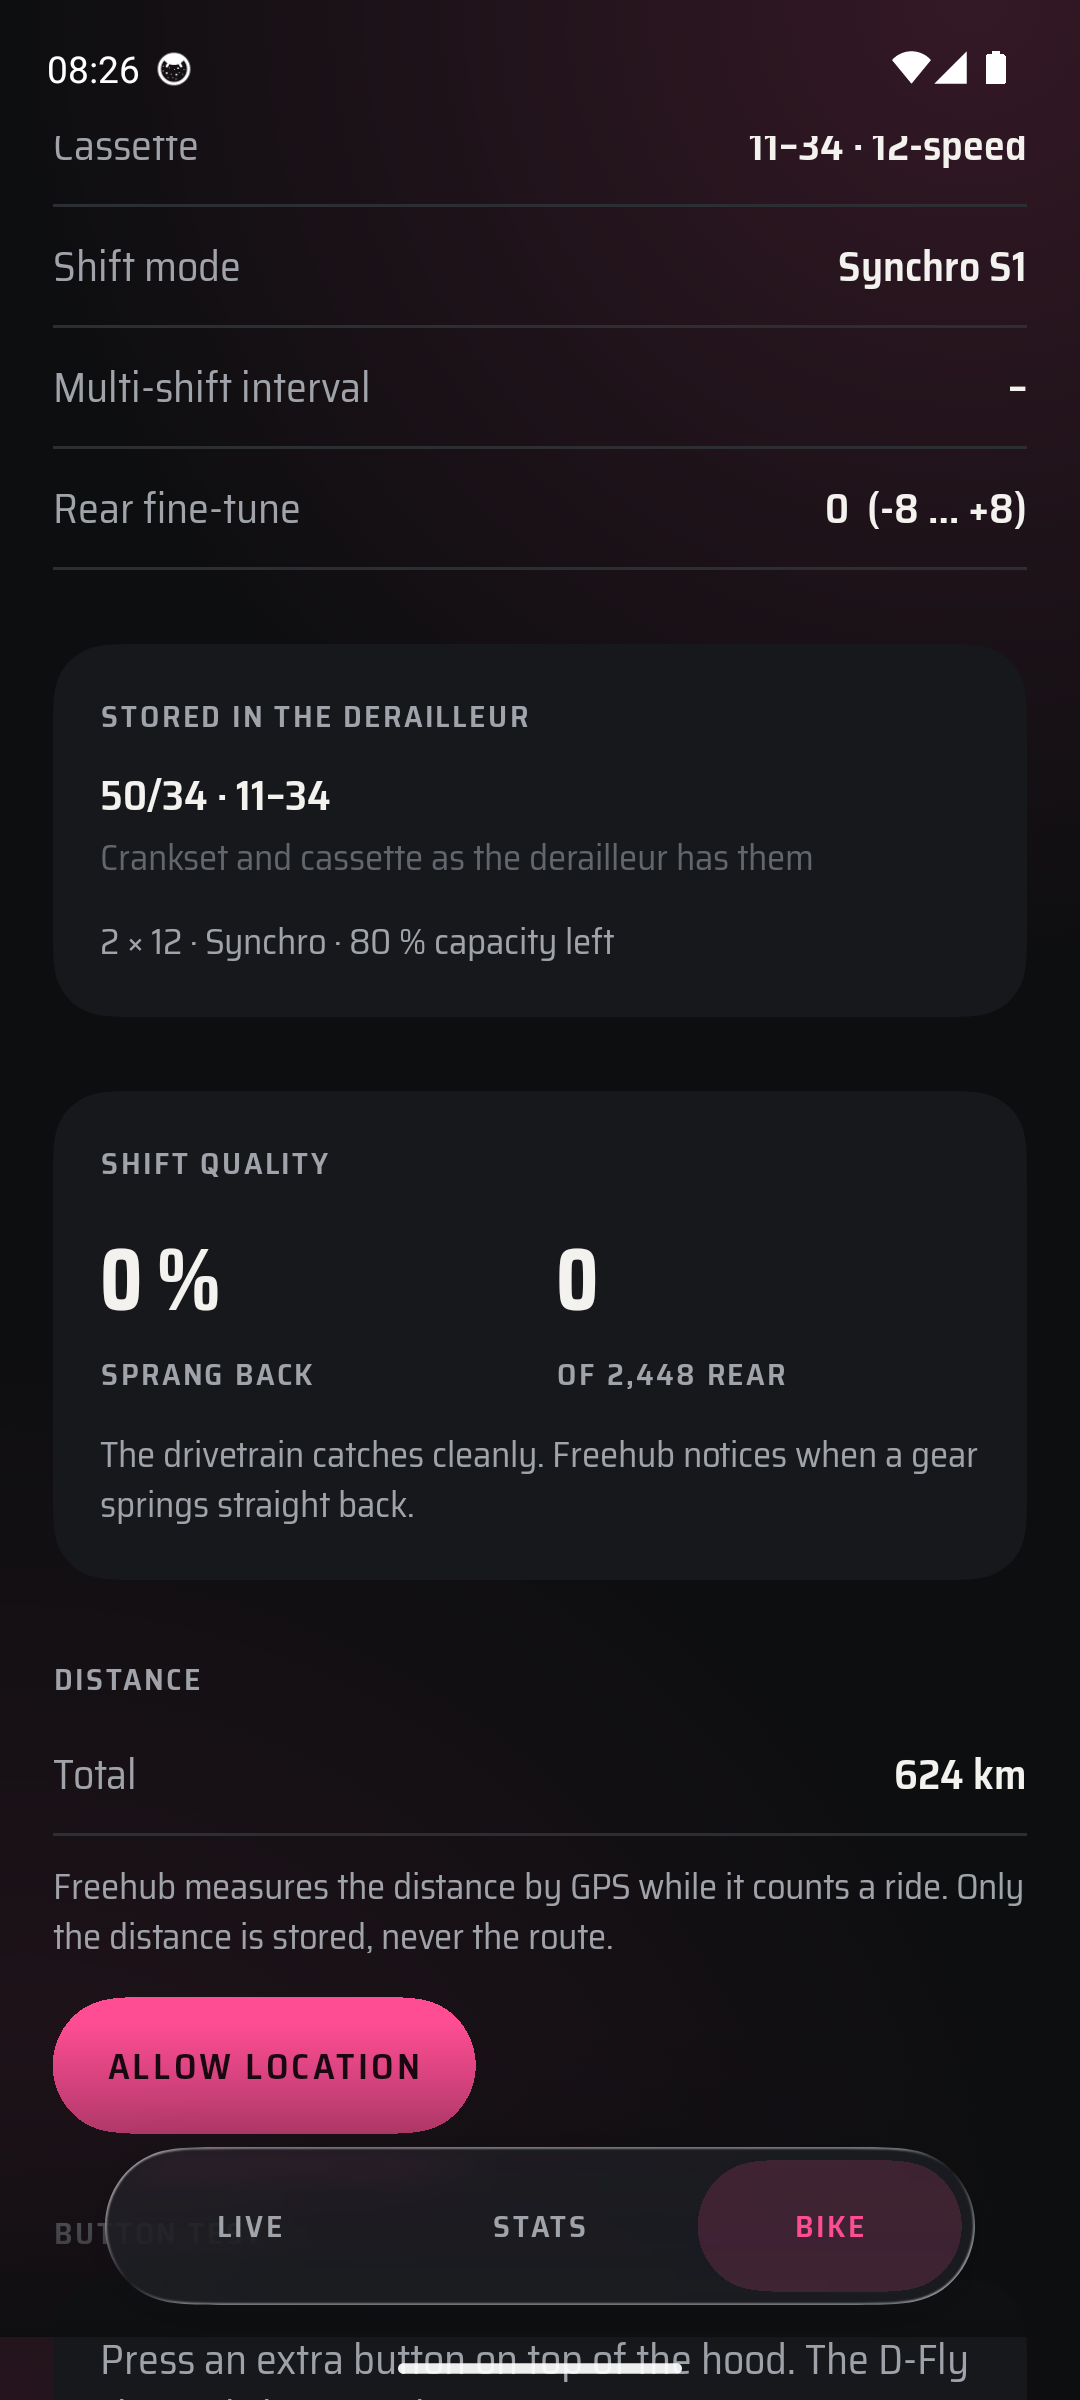
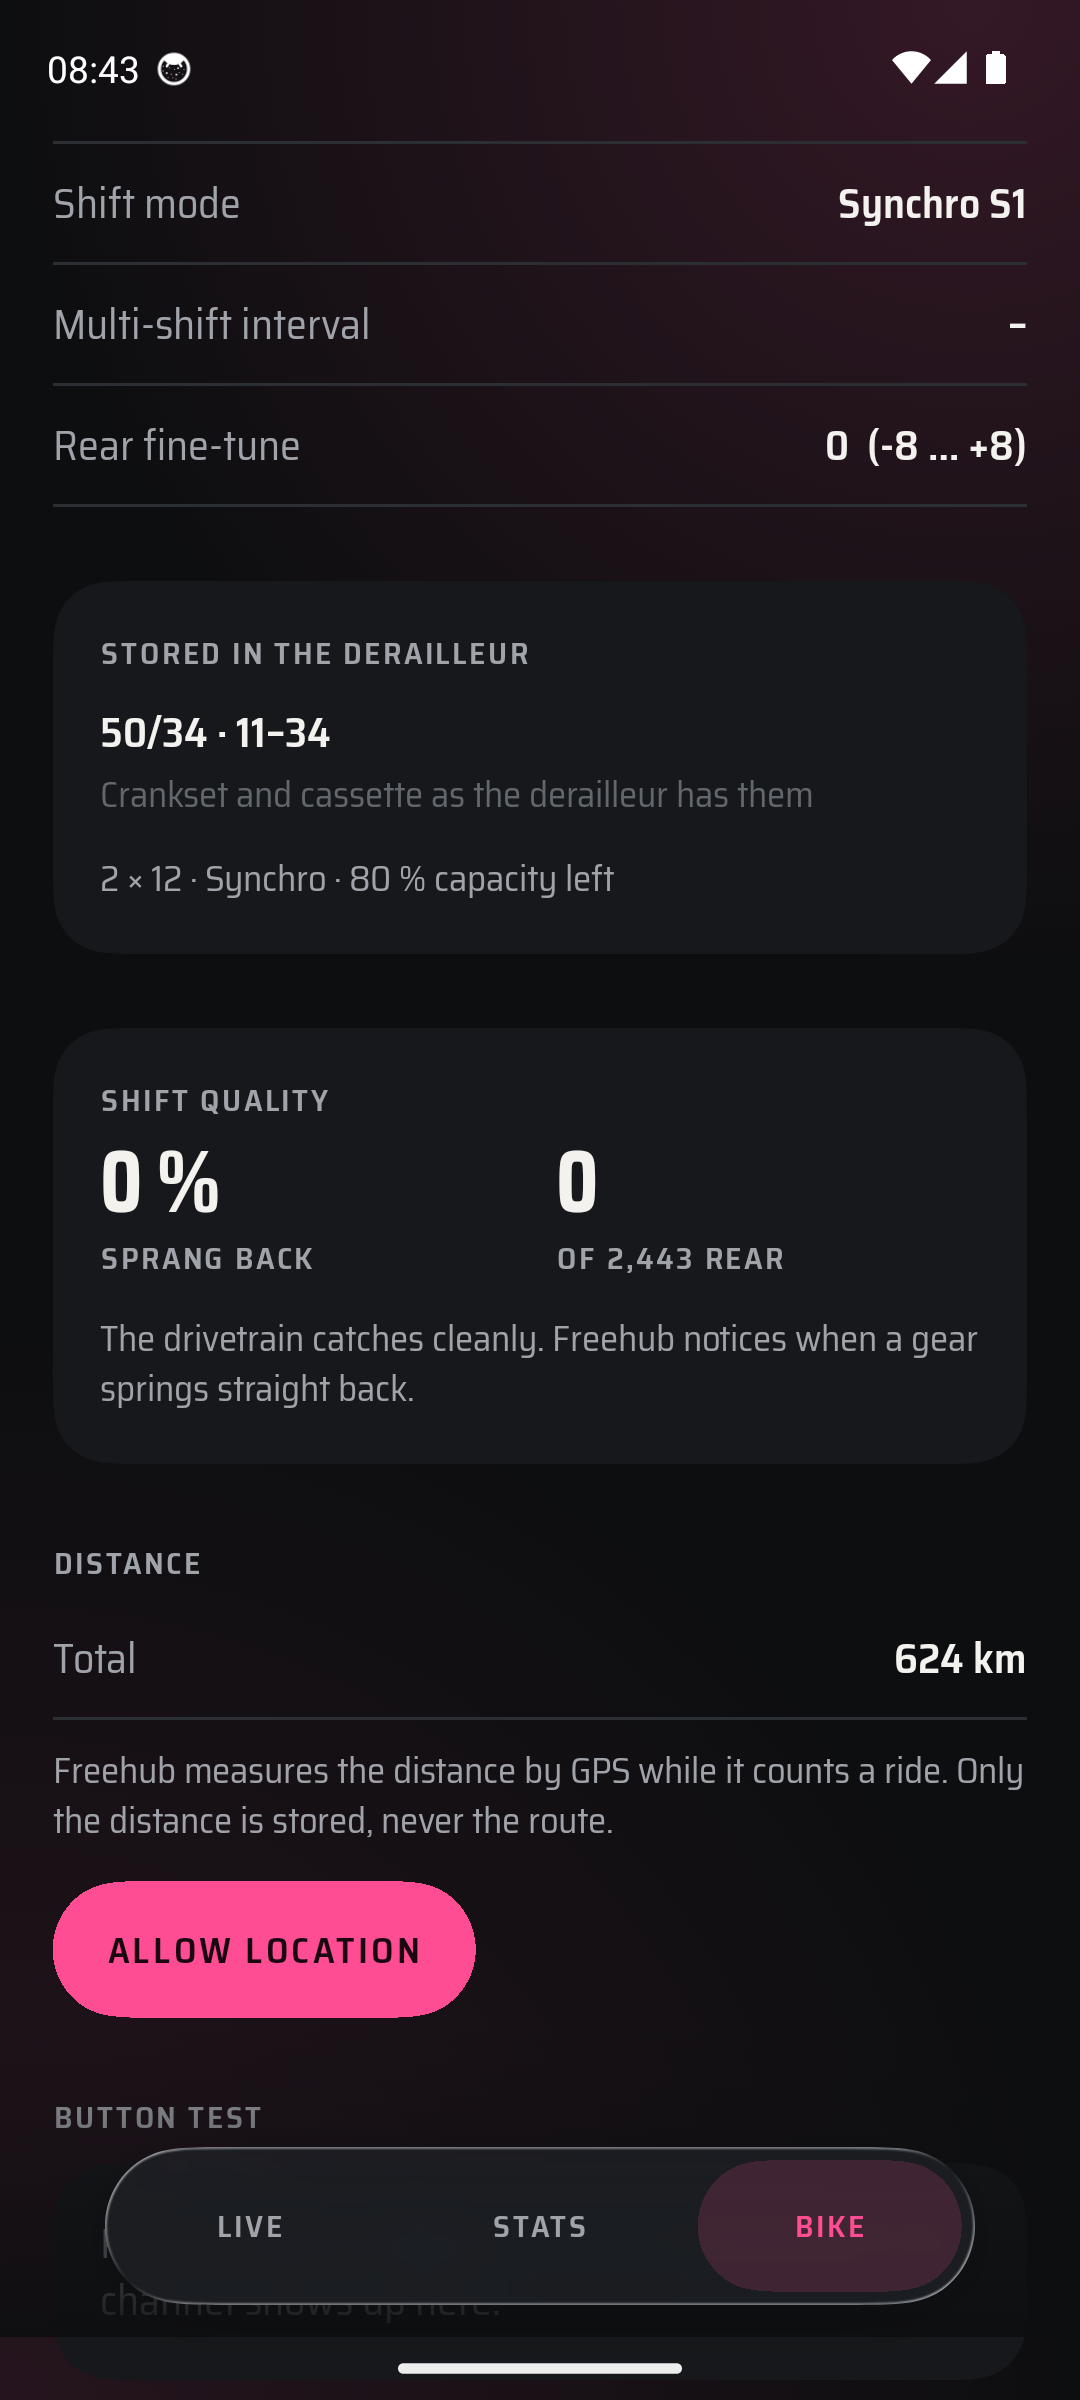
Numbers sit on their labels: crop Saira's empty line box around numerals
Saira reserves 0.45 em above and 0.44 em below the digits for accents and
descenders. A single line ignores a smaller lineHeight in Compose, so the gear,
the all-time count and every field value now get Modifier.capBox, which crops
the measured box to cap height and baseline; the glyphs still draw in full.
Labels sit on their numbers, and the whole Live screen, this ride included,
fits above the tab bar. Screenshots, README images and alt texts redone.

diff --git a/app/src/main/java/io/github/brickystudios/freehub/Ui.kt b/app/src/main/java/io/github/brickystudios/freehub/Ui.kt
@@ -62,6 +62,10 @@ import androidx.compose.ui.text.input.KeyboardType
 import androidx.compose.ui.text.input.PasswordVisualTransformation
 import androidx.compose.ui.text.input.VisualTransformation
 import java.util.Locale
+import androidx.compose.ui.layout.AlignmentLine
+import androidx.compose.ui.layout.FirstBaseline
+import androidx.compose.ui.layout.layout
+import kotlin.math.roundToInt
 
 /** The app's language: null follows the phone (German phones get German, all others English). */
 object Lang {
@@ -166,17 +170,35 @@ fun BodyText(text: String, modifier: Modifier = Modifier, color: Color = P.ink, 
     style = TextStyle(fontFamily = Body, fontWeight = weight, fontSize = size, lineHeight = size * 1.35f, color = color, textAlign = align ?: TextAlign.Unspecified),
 )
 
+/** The big type. [tight] is for a number on a line of its own: see [capBox]. */
 @Composable
-fun Num(text: String, size: TextUnit, modifier: Modifier = Modifier, color: Color = P.ink, weight: FontWeight = FontWeight.ExtraBold) = Text(
-    text, modifier,
+fun Num(text: String, size: TextUnit, modifier: Modifier = Modifier, color: Color = P.ink, weight: FontWeight = FontWeight.ExtraBold, tight: Boolean = false) = Text(
+    text, if (tight) modifier.capBox(size) else modifier,
     style = TextStyle(fontFamily = Numerals, fontWeight = weight, fontSize = size, lineHeight = size * 0.95f, color = color, letterSpacing = (-0.01).em),
 )
+
+/**
+ * Boxes one line of numerals from just above cap height to just below the baseline. Saira reserves room for
+ * accents and descenders that digits never use (0.45 em above, 0.44 em below), which at 120 sp pushes a label a
+ * finger's width away from its number. A single line ignores a smaller lineHeight in Compose, so the measured
+ * box is cropped instead; the glyphs still draw in full.
+ */
+fun Modifier.capBox(size: TextUnit) = layout { m, c ->
+    val p = m.measure(c)
+    val base = p[FirstBaseline]
+    if (base == AlignmentLine.Unspecified) return@layout layout(p.width, p.height) { p.place(0, 0) }
+    val em = size.toPx()
+    val top = (base - em * 0.74f).roundToInt().coerceAtLeast(0) // Saira's cap height is 0.688 em
+    val bottom = (base + em * 0.06f).roundToInt().coerceAtMost(p.height)
+    layout(p.width, bottom - top) { p.place(0, -top) }
+}
 
 /** A value with its label underneath, the way a bike computer shows a field. */
 @Composable
 fun Field(value: String, label: String, modifier: Modifier = Modifier, size: TextUnit = 34.sp, color: Color = P.ink) {
     Column(modifier) {
-        Num(value, size, color = color, weight = FontWeight.Bold)
+        Num(value, size, color = color, weight = FontWeight.Bold, tight = true)
+        Spacer(Modifier.height(6.dp))
         Label(label)
     }
 }

diff --git a/app/src/main/java/io/github/brickystudios/freehub/LiveScreen.kt b/app/src/main/java/io/github/brickystudios/freehub/LiveScreen.kt
@@ -53,7 +53,7 @@ fun LiveScreen(bike: Bike, profile: Profile?, paired: Boolean, bikes: List<Profi
     Column(Modifier.fillMaxWidth().verticalScroll(rememberScrollState()).padding(horizontal = 20.dp, vertical = 12.dp)) {
         StatusLine(bike, profile)
         if (bikes.size > 1 && !bike.demo) BikeChips(bikes, profile)
-        Spacer(Modifier.height(20.dp))
+        Spacer(Modifier.height(36.dp))
         val g = bike.gears
         when {
             needsPermission -> Welcome(onAllow, onDemo)
@@ -132,6 +132,7 @@ private fun Cockpit(g: Gears, ride: RideNow?, wheelMm: Int, buttons: Instant.But
         BodyText("×", Modifier.padding(horizontal = 10.dp), color = P.faint, size = 48.sp)
         GearNumber(rear, g.rear, still, P.accent)
     }
+    Spacer(Modifier.height(14.dp))
     Label(
         tr("Vorne ${g.front ?: "–"}/${g.frontMax ?: "–"} · Hinten ${g.rear ?: "–"}/${g.rearMax ?: "–"}", "Front ${g.front ?: "–"}/${g.frontMax ?: "–"} · Rear ${g.rear ?: "–"}/${g.rearMax ?: "–"}"),
     )
@@ -145,7 +146,7 @@ private fun Cockpit(g: Gears, ride: RideNow?, wheelMm: Int, buttons: Instant.But
         Field(ratio?.let { "%.2f m".fmt(it * wheelMm / 1000f) } ?: "–", tr("Entfaltung", "Development"), Modifier.weight(1f))
         Field(modeShort(g.mode), tr("Schaltmodus", "Shift mode"), Modifier.weight(1f))
     }
-    Spacer(Modifier.height(16.dp))
+    Spacer(Modifier.height(20.dp))
     // labelled on purpose: a bare "100 %" in the corner reads as the phone's own battery
     Row(Modifier.fillMaxWidth(), horizontalArrangement = Arrangement.spacedBy(12.dp)) {
         val low = (battery ?: 100) <= 20
@@ -187,7 +188,7 @@ private fun GearNumber(teeth: Int?, position: Int?, still: Boolean, color: andro
                 .togetherWith(slideOutVertically(tween(90)) { if (up) -it / 5 else it / 5 } + fadeOut(tween(60)))
         },
         label = "gear",
-    ) { (t, _) -> Num(t?.toString() ?: "–", 120.sp, color = color) }
+    ) { (t, _) -> Num(t?.toString() ?: "–", 120.sp, color = color, tight = true) }
 }
 
 /**

diff --git a/docs/de/index.html b/docs/de/index.html
@@ -58,12 +58,12 @@
       </div>
       <p class="note">Android 8 oder neuer. Kostenlos und quelloffen unter GPL-3.0.</p>
     </div>
-    <img class="screen" src="../bilder/app/live-de-dark.png" width="1080" height="2400" alt="Freehub zeigt den Gang 50 × 19, die Kassette mit dem aktuellen Ritzel in Rosa, Akku 81 %, noch etwa 810 km Reichweite und 624 km auf dem Rad">
+    <img class="screen" src="../bilder/app/live-de-dark.png" width="1080" height="2400" alt="Freehub zeigt den Gang 50 × 17, die Kassette mit dem aktuellen Ritzel in Rosa, Akku 81 %, noch etwa 810 km Reichweite und 624 km auf dem Rad">
   </section>
 
   <section class="band">
     <div class="container split">
-      <img class="screen" src="../bilder/app/stats-de-dark.png" width="1080" height="2400" loading="lazy" alt="Statistik: 2.552 Schaltvorgänge in 13 Fahrten, 624 km per GPS, Schräglauf-Anteil, Lieblingsgang 50 × 17 und eine Heatmap aus Kettenblatt und Ritzel">
+      <img class="screen" src="../bilder/app/stats-de-dark.png" width="1080" height="2400" loading="lazy" alt="Statistik: 2.553 Schaltvorgänge in 13 Fahrten, 624 km per GPS, Schräglauf-Anteil, Lieblingsgang 50 × 17 und eine Heatmap aus Kettenblatt und Ritzel">
       <div>
         <h2>Jeder Gangwechsel, jeder Kilometer.</h2>
         <p>Ein Multi-Shift über drei Ritzel zählt als drei. Freehub misst, wie lange du in jedem Kettenblatt und Ritzel fährst, und zeichnet daraus eine Heatmap. Gänge mit Schräglauf sind orange umrandet.</p>

diff --git a/docs/index.html b/docs/index.html
@@ -58,12 +58,12 @@
       </div>
       <p class="note">Android 8 or newer. Free and open source under GPL-3.0.</p>
     </div>
-    <img class="screen" src="bilder/app/live-en-dark.png" width="1080" height="2400" alt="Freehub showing the gear 50 × 19, the cassette with the current cog in pink, battery 81 %, about 810 km of range left and 624 km on the bike">
+    <img class="screen" src="bilder/app/live-en-dark.png" width="1080" height="2400" alt="Freehub showing the gear 50 × 17, the cassette with the current cog in pink, battery 81 %, about 810 km of range left and 624 km on the bike">
   </section>
 
   <section class="band">
     <div class="container split">
-      <img class="screen" src="bilder/app/stats-en-dark.png" width="1080" height="2400" loading="lazy" alt="Statistics: 2,552 shifts in 13 rides, 624 km measured by GPS, 1 % cross-chained, favourite gear 50 × 17 and a heatmap of chainring and cog">
+      <img class="screen" src="bilder/app/stats-en-dark.png" width="1080" height="2400" loading="lazy" alt="Statistics: 2,553 shifts in 13 rides, 624 km measured by GPS, 1 % cross-chained, favourite gear 50 × 17 and a heatmap of chainring and cog">
       <div>
         <h2>Every shift, every kilometre.</h2>
         <p>A multi-shift across three cogs counts as three. Freehub keeps the time you spend in each chainring and cog and draws it as a heatmap, with cross-chained gears outlined in orange.</p>

diff --git a/app/src/main/java/io/github/brickystudios/freehub/StatsScreen.kt b/app/src/main/java/io/github/brickystudios/freehub/StatsScreen.kt
@@ -42,7 +42,9 @@ fun StatsScreen(totals: Totals, ride: RideNow?, gears: Gears?, km: Double?, bike
 
     Column(Modifier.fillMaxWidth().verticalScroll(rememberScrollState()).padding(horizontal = 20.dp, vertical = 20.dp)) {
         Label(tr("Seit Beginn", "All time") + (bikeName?.let { " · $it" } ?: ""))
-        Num(count(shifts), 88.sp)
+        Spacer(Modifier.height(14.dp))
+        Num(count(shifts), 88.sp, tight = true)
+        Spacer(Modifier.height(12.dp))
         BodyText(
             tr("Schaltvorgänge in ${totals.rides.size + (if (ride != null) 1 else 0)} Fahrten · ${duration(ms)}", "shifts in ${totals.rides.size + (if (ride != null) 1 else 0)} rides · ${duration(ms)}"),
             color = P.muted,

diff --git a/README.md b/README.md
@@ -18,7 +18,7 @@
 
 Shimano's E-TUBE PROJECT app asks you to sign in with a SHIMANO ID before it shows anything. Freehub connects to the rear derailleur over Bluetooth, reads what the derailleur already broadcasts to bike computers, and keeps every number on your phone.
 
-| ![Current gear as 50 × 19 with battery, range left and the bike’s total distance below](docs/bilder/1-live.png) | ![All-time shift count, distance by GPS and a heatmap of gear usage](docs/bilder/2-stats.png) | ![Battery, range left and drivetrain of the bike](docs/bilder/3-bike.png) | ![The crankset and cassette stored in the derailleur, and the shift quality: 0 of 2,448 rear shifts sprang back](docs/bilder/4-derailleur.png) |
+| ![Current gear as 50 × 17 with battery, range left and the bike’s total distance below](docs/bilder/1-live.png) | ![All-time shift count, distance by GPS and a heatmap of gear usage](docs/bilder/2-stats.png) | ![Battery, range left and drivetrain of the bike](docs/bilder/3-bike.png) | ![The crankset and cassette stored in the derailleur, and the shift quality: 0 of 2,448 rear shifts sprang back](docs/bilder/4-derailleur.png) |
 |---|---|---|---|
 
 ## What it shows
